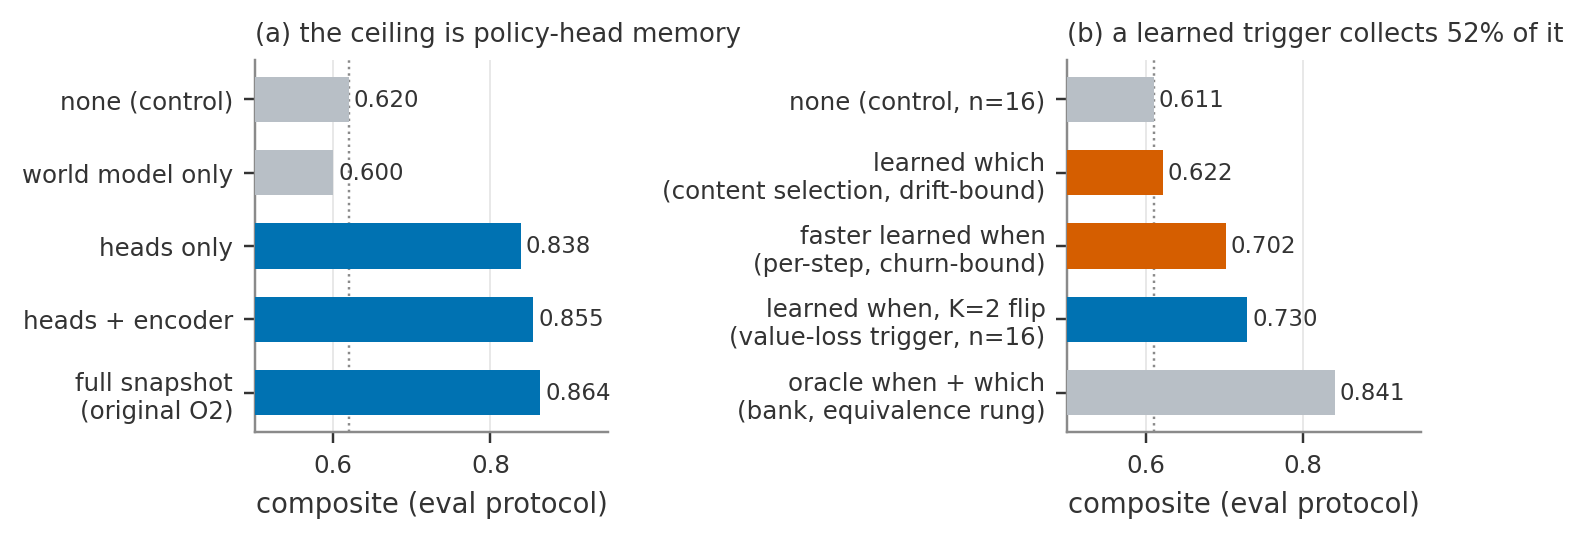
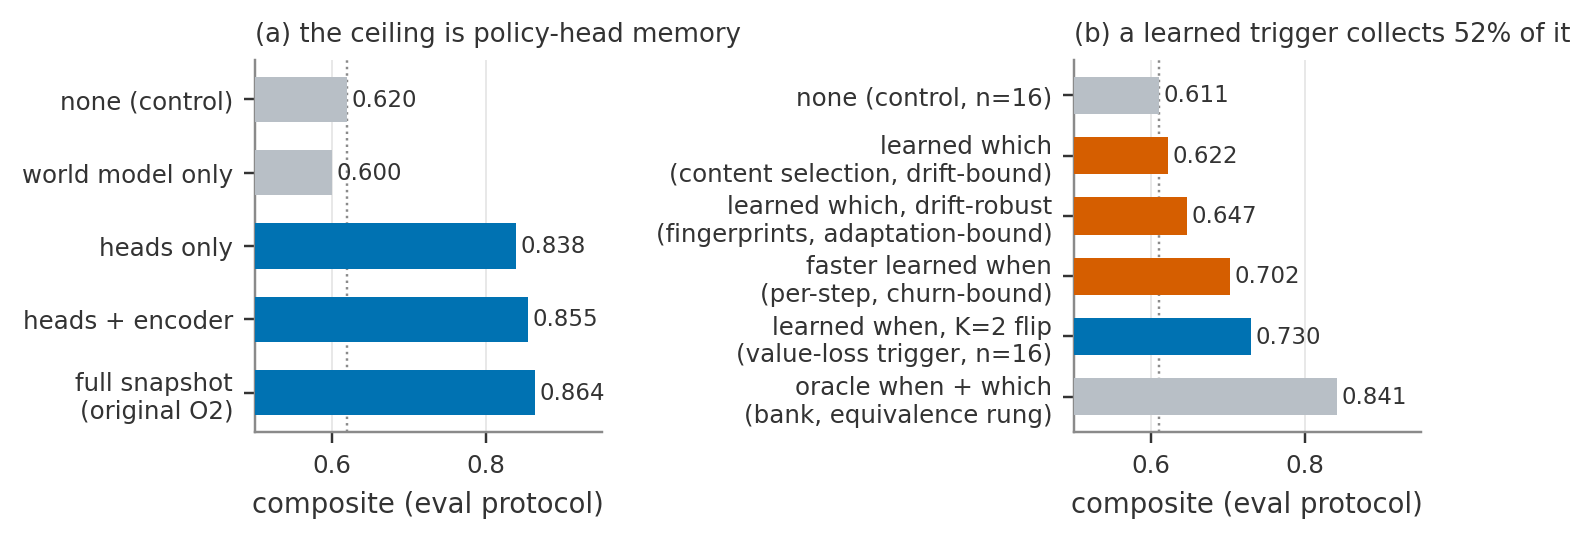
LOOP-0015 CLOSED: selection family adjudicated -- live-side adaptation is the third and final mechanism; paper updated
P-FP1 FAIL (flip-when-should 0.16 / stay 0.64) + P-FP2 FAIL (+0.0367,
p=0.27). The drift fix WORKED (fingerprints score in their own frozen
feature space; live WM untouched) -- and exposed the real obstruction: the
live reward head adapts to the new regime within the trigger's one-update
lag, so the live-scored 'no switch' hypothesis wins even at true switches.

Selection family closed: 3 probes / 3 identified mechanisms (trunk drift,
verification churn, live-side adaptation) -> a 2048-step window measured
against a fast-adapting reward function has no stationary signal for
content addressing on this instrument. The blind K=2 flip (+0.1188, n=16)
stands as the method. The learned WHICH needs oracle identity or an
instrument whose regime signal outlives the learner's adaptation
(dynamics-differing regimes) -- recorded as a future-instrument note.

Paper: gap-anatomy item 3 rewritten (three-mechanism verdict), section 6.3
closing paragraph updated (no next-rung framing; release-and-port framing),
discussion sentence updated, fig3(b) gains the adaptation-bound bar.

diff --git a/paper/main.tex b/paper/main.tex
@@ -612,8 +612,9 @@ whole benchmark just gets harder.
   \textbf{(b)}~De-oracling the heads bank: with oracle timing and identity the
   bank reproduces the oracle; a self-supervised value-loss trigger with
   $K{=}2$ flip selection retains 52\% of the slice (blue); faster triggering
-  and content-addressed selection (vermillion) are adjudicated negatives ---
-  churn-bound and drift-bound respectively (\S\ref{sec:gap-anatomy}).}
+  and both content-selection designs (vermillion) are adjudicated negatives
+  --- churn-bound, adaptation-bound, and drift-bound respectively
+  (\S\ref{sec:gap-anatomy}).}
   \label{fig:memory}
 \end{figure}
 
@@ -658,29 +659,36 @@ identified mechanism:
   fails, the detector correctly fires again), so each false fire costs two
   cooldowns of churn; live precision fell to $0.65$ at $15$ fires/run.
   Precision-is-free is cadence-bounded.
-  \item \textbf{Content-addressed selection fails for a representational
-  reason, not an informational one.} Selecting slots by banked-critic value
-  fit, or by a banked world-model reward head used as a regime fingerprint,
-  both collapse to the control: banked heads are scored through a trunk that
-  has \emph{kept training} since banking, so the always-fresh live head wins
-  the error comparison and the selector almost never restores (restore rates
-  $2\%$ and $16\%$ of fires, with well-calibrated triggers). Drift between
-  banking and scoring, not absence of identity signal, is the obstruction ---
-  and it is the same obstruction a per-event world-model trigger meets (its
-  reward head is chronically underconfident at goal events; per-event
-  prediction error carried precision $0.02$--$0.04$ in shadow calibration).
+  \item \textbf{Content-addressed selection fails three ways, each
+  identified.} Selecting slots by banked-critic value fit, or by a banked
+  world-model reward head used as a regime fingerprint, collapses to the
+  control: banked heads are scored through a trunk that has \emph{kept
+  training} since banking, so the always-fresh live head wins the error
+  comparison and the selector almost never restores (restore rates $2\%$ and
+  $16\%$ of fires, with well-calibrated triggers). Fixing that drift ---
+  banking each slot's \emph{entire} world model so fingerprints are scored in
+  their own frozen feature space --- exposes a third obstruction: by the time
+  the trigger fires ($\sim$1 update post-switch), the live reward head has
+  already adapted to the new regime's sparse rewards, so the ``no switch
+  happened'' hypothesis wins the comparison even at true switches
+  ($+0.037$, $p{=}0.27$; flip rate on true-switch fires $0.16$). Three
+  selectors, three mechanisms --- trunk drift, verification churn, live-side
+  adaptation --- one conclusion: a $2{,}048$-step window measured against a
+  fast-adapting reward function leaves no stationary signal for content
+  addressing on this instrument.
   \item \textbf{Difficulty does not rescue the program} (\S\ref{sec:decomp}):
   the restoration premium is flat in regime count.
 \end{enumerate}
 
 The residual $\sim$0.10 is therefore structural to \{$K{=}2$ flip $+$
-self-supervised trigger\}: first-exposure spawn dynamics plus detection
-economics, with no single knob left. The one mechanism-level idea that
-attacks both at once --- \emph{drift-robust fingerprints}, banking the
-scoring path alongside each slot so matching data keeps the current head
-(false-fire suppression) and mismatching data addresses the right one
-($K{>}2$ selection) --- is the natural next rung, and we release the bank,
-triggers, and probes to make it a one-afternoon experiment.
+self-supervised trigger\} on this instrument: first-exposure spawn dynamics
+plus detection economics, with no knob left --- threshold, precision, lag,
+and all three content-selection designs are adjudicated. The learned
+\emph{which} would need either oracle identity or an instrument whose regime
+signal outlives the learner's own adaptation (regimes that differ in
+dynamics, not only reward, are the obvious candidate). We release the bank,
+the triggers, the selectors, and every probe so that porting this ladder to
+such an instrument is a one-afternoon experiment.
 
 \section{Three Mirages and a Criterion}
 \label{sec:mirages}
@@ -768,9 +776,11 @@ self-supervised trigger then collected 52\% of the routed slice with zero
 oracle bits. The anticipated difficulty inverted: buffer-selection results
 suggested selection is where difficulty
 concentrates~\citep{isele2018selectivereplay,kessler2023continualdreamer},
-and our selection probes do fail --- but for a drift reason that also caps
-every faster-trigger design, while the \emph{when} half proved learnable at
-half the ceiling on the first attempt. Notably, these results also bound
+and our selection probes do fail --- three designs, three identified
+mechanical reasons (representation drift, verification churn, live-side
+adaptation), the last of which also caps every faster-trigger design ---
+while the \emph{when} half proved learnable at half the ceiling on the first
+attempt. Notably, these results also bound
 what a \emph{Brain-in-the-loop} restore gate could add: it would act at the
 same per-update cadence (same lag floor), and the one thing it could learn
 beyond the static detector --- fire suppression --- is measured to be worth

diff --git a/paper/figures/make_figures.py b/paper/figures/make_figures.py
@@ -168,6 +168,7 @@ def fig3_memory() -> None:
         ("oracle when + which\n(bank, equivalence rung)", 0.8409, BAR_GRAY),
         ("learned when, K=2 flip\n(value-loss trigger, n=16)", 0.7295, BLUE),
         ("faster learned when\n(per-step, churn-bound)", 0.7023, VERMILLION),
+        ("learned which, drift-robust\n(fingerprints, adaptation-bound)", 0.6473, VERMILLION),
         ("learned which\n(content selection, drift-bound)", 0.6218, VERMILLION),
         ("none (control, n=16)", 0.6107, BAR_GRAY),
     ]

diff --git a/AUTORESEARCH.md b/AUTORESEARCH.md
@@ -72,7 +72,7 @@ Index with one-liners: [docs/autoresearch-loops/README.md](docs/autoresearch-loo
 - [LOOP-0012 — G3 head-bank de-oracling](docs/autoresearch-loops/LOOP-0012-g3-head-bank.md): closed 2026-07-14 same-day ($0, 24/24) — **bank ≡ heads swap (P-G3a); A-R1 learned trigger recovers +0.1180 = 54% of the ceiling slice with zero oracle bits (P-G3b PASS, precision 0.70, hit80 1.000)**; P-G3c selection arm **invalidated same day** — missing slot allocation meant the selector never ran (artifact caught by LOOP-0013's smoke; correction in [note 0013](docs/research-notes/0013-learned-trigger-selection-gap.md))
 - [LOOP-0013 — selection rung done right](docs/autoresearch-loops/LOOP-0013-selection-rung.md): selection RESOLVED 2026-07-15 ($0, 24/24) — **P-G3e PASS: the K=2-flip learned-trigger method converges at n=16, +0.1188 (p=4.7e-7, 52% of slice); P-G3d + P-G3d-ve both FAIL as real nulls with an identified mechanism: banked heads scored through the live drifting trunk almost never restore (1/55, 9/55 fires)** — the selection frontier is drift-robust fingerprints (bank the scoring path) or the mem-Brain lever. **Addendum resolved + LOOP CLOSED 2026-07-15: precision 0.69→0.94 (thr 1.5) moved the composite by nothing (P-T15a PASS / P-T15b FAIL) — the oracle gap is detection LAG, structural to per-update detectors including a Brain gate at the same cadence** ([log 0011](docs/research-log/0011-2026-07-15-trigger-hardening-preregistration.md), [note 0013](docs/research-notes/0013-learned-trigger-selection-gap.md)); $0 frontier: per-step WM-surprise trigger, drift-robust fingerprints; mem-Brain premise weakened
 - [LOOP-0014 — per-step trigger vs the lag wall](docs/autoresearch-loops/LOOP-0014-step-trigger.md): OPEN (scored arm launched 2026-07-16, home, $0) — model-free success-collapse detector fires mid-rollout (median lag ~400 steps vs 2,048+ per-update); shadow-calibrated over 3 disclosed iterations (per-event WM prediction error abandoned at precision 0.02-0.04); **CLOSED 2026-07-16: P-S1a+b both FAIL** — lag cut to 280 steps (recall 1.00) but gain FELL to +0.0916: a false flip guarantees its own secondary collapse (live precision 0.65 @ 15.5 fires/run; churn > lag savings). **Trigger family complete — the method is the per-update trigger at +0.1188 (n=16)**; residual ~0.10 gap structural; next: paper consolidation ([note 0013 addendum](docs/research-notes/0013-learned-trigger-selection-gap.md))
-- [LOOP-0015 — drift-robust fingerprint selection](docs/autoresearch-loops/LOOP-0015-fingerprint-selection.md): OPEN (launched 2026-07-16, home, $0, user green-light) — fixes the LOOP-0013 drift null by banking the full WM per slot (scoring-only) so fingerprints read their own frozen features; live WM scores the active slot → the selector doubles as a fire verifier (the LOOP-0014 churn suppressor); gates P-FP1 (flip/stay behavior ≥0.75) + P-FP2 (non-inferiority vs ar1) pre-registered ([log 0013](docs/research-log/0013-2026-07-16-fingerprint-selection-preregistration.md))
+- [LOOP-0015 — drift-robust fingerprint selection](docs/autoresearch-loops/LOOP-0015-fingerprint-selection.md): OPEN (launched 2026-07-16, home, $0, user green-light) — fixes the LOOP-0013 drift null by banking the full WM per slot (scoring-only) so fingerprints read their own frozen features; live WM scores the active slot → the selector doubles as a fire verifier (the LOOP-0014 churn suppressor); **CLOSED same-day: P-FP1+FP2 both FAIL** (+0.0367 p=0.27; flip-when-should 0.16) — the drift fix worked, but the live reward head adapts within the trigger's one-update lag, so the live-scored 'no switch' hypothesis wins even at true switches. **Selection family adjudicated closed on this instrument (drift → churn → live-side adaptation); the blind K=2 flip +0.1188 (n=16) stands as the method** ([log 0013](docs/research-log/0013-2026-07-16-fingerprint-selection-preregistration.md), [note 0013 addendum](docs/research-notes/0013-learned-trigger-selection-gap.md))
 
 ## Deeper references
 

diff --git a/docs/autoresearch-loops/README.md b/docs/autoresearch-loops/README.md
@@ -78,4 +78,4 @@ The loop note is its curated, committed afterlife, written at loop close-out.
 | [LOOP-0012](./LOOP-0012-g3-head-bank.md) | 2026-07-14 | G3 de-oracling ($0, home): bank ≡ swap (P-G3a); **learned trigger recovers +0.118 = 54% of the ceiling slice** (P-G3b, hit80 1.000); P-G3c selection arm **invalidated same day** (missing slot allocation — selector never ran; corrected in note 0013, re-run in LOOP-0013) | closed |
 | [LOOP-0013](./LOOP-0013-selection-rung.md) | 2026-07-14–15 | Selection + trigger rungs done right ($0): **flip method converges n=16 +0.1188 (52% of slice)**; content selectors = real nulls (trunk drift, 1/55 & 9/55 restores); precision 0.69→0.94 moves nothing → **the gap to oracle is detection lag** — per-step trigger & drift-robust fingerprints are the $0 frontier; mem-Brain lever premise weakened ([note 0013](../research-notes/0013-learned-trigger-selection-gap.md)) | closed |
 | [LOOP-0014](./LOOP-0014-step-trigger.md) | 2026-07-15– | Per-step trigger vs the lag wall ($0): model-free success-collapse detector (fast/slow EMAs at episode terminations), 3-iteration shadow calibration disclosed (WM per-event error = noise; final: live-equiv precision ~0.9, median lag ~400 steps); P-S1a+b both FAIL: lag cut to 280 steps but gain FELL to +0.0916 — false flips self-generate collapses (churn > lag savings); **trigger family complete, method stands at +0.1188** ([note 0013 addendum](../research-notes/0013-learned-trigger-selection-gap.md)) | closed |
-| [LOOP-0015](./LOOP-0015-fingerprint-selection.md) | 2026-07-16– | Drift-robust fingerprint selection ($0): bank the full WM per slot (scoring-only, frozen feature space), live WM scores the active slot — selection + fire verification in one mechanism; gates P-FP1/FP2 pre-registered ([log 0013](../research-log/0013-2026-07-16-fingerprint-selection-preregistration.md)) | **OPEN** |
+| [LOOP-0015](./LOOP-0015-fingerprint-selection.md) | 2026-07-16– | Drift-robust fingerprint selection ($0): bank the full WM per slot (scoring-only, frozen feature space), live WM scores the active slot — P-FP1+FP2 both FAIL (+0.037, flip-when-should 0.16): the drift fix worked but the live reward head adapts within the trigger lag — the 'no switch' hypothesis wins even at true switches. **Selection family closed (3 probes / 3 mechanisms); the blind flip +0.1188 stands** ([note 0013 addendum](../research-notes/0013-learned-trigger-selection-gap.md)) | closed |

diff --git a/docs/research-notes/0013-learned-trigger-selection-gap.md b/docs/research-notes/0013-learned-trigger-selection-gap.md
@@ -147,6 +147,35 @@ that attacks BOTH residuals at once is drift-robust fingerprint selection (stay 
 incoming data matches the active head's fingerprint → false fires become no-ops; restore the
 matching slot when it doesn't → selection for K>2) — a future rung, after the paper.
 
+## Drift-robust fingerprint addendum (2026-07-16, LOOP-0015 — the selection family closes)
+
+The drift fix itself worked as designed (each slot's fingerprint = its **entire banked WM**,
+scored in its own frozen feature space; live WM never touched; verified by unit test and by
+off-window behavior — stays, not the drift-null's paralysis). The gates still failed:
+
+| | gain | flip-when-should | stay-when-should |
+| --- | --- | --- | --- |
+| g3_fp (n=8) | **+0.0367** (p=0.27) | **0.16** (43 window fires) | 0.64 (14 off-window) |
+| references | ar1 blind flip +0.1188 · drift-bound fp −0.0092 | | |
+
+**P-FP1 FAIL / P-FP2 FAIL — third distinct mechanism, identified:** by the time the
+per-update trigger fires (~1 update after a switch), the live WM has already taken one
+training pass on post-switch data — its 257-param reward head fits the new regime's sparse
+rewards fast enough that the "no switch happened" hypothesis (the live WM, scoring the
+active slot) wins the comparison even when a switch DID happen. The banked fingerprint is
+honest now; the *comparison target* is a moving goalpost that has already moved.
+
+**Selection family verdict (3 probes, 3 mechanisms, one conclusion):** critic value fit —
+trunk drift; per-step verification — self-generated churn; frozen-feature fingerprints —
+live-side adaptation. On this instrument, a 2,048-step post-switch window against a
+fast-adapting reward function leaves no stationary signal for content addressing. **The
+learned WHICH is closed here; the blind K=2 flip (+0.1188) stands as the method.** K>2
+content addressing on this family would need either oracle identity or an instrument whose
+regime signal outlives the learner's own adaptation (e.g., dynamics-differing regimes) — a
+future-instrument note, not a rung. (A conceivable fourth design — periodically re-banking
+the active fingerprint and comparing two FROZEN fingerprints — would fight the same
+adaptation race at the re-bank cadence; we record it as unexplored rather than promising.)
+
 ## Links
 
 Raw: `evals/g3_*`, `evals/wave1_scores.json` (local) · adjudicator `scripts/score_wave1.py g3` ·

diff --git a/docs/research-log/README.md b/docs/research-log/README.md
@@ -59,4 +59,4 @@ Concrete next actions or open questions.
 | [0010](./0010-2026-07-14-selection-rung-preregistration.md) | 2026-07-14 | Registered gates P-G3d/d-ve/e: selection re-run with spawn-until-full allocation — reward fingerprint vs value fit head-to-head + ar1 n=16 (LOOP-0013) | Resolved 07-15 (d FAIL, d-ve FAIL — trunk drift; e PASS +0.1188) |
 | [0011](./0011-2026-07-15-trigger-hardening-preregistration.md) | 2026-07-15 | Registered gates P-T15a/b: K=2-flip trigger hardening at threshold 1.5 (LOOP-0013 addendum) | Resolved same-day (a PASS 0.94, b FAIL — gap is lag) |
 | [0012](./0012-2026-07-16-step-trigger-preregistration.md) | 2026-07-16 | Registered gates P-S1a/b: per-step success-collapse trigger (LOOP-0014) — the lag-wall attack; calibration history disclosed | Resolved same-day (a+b FAIL — churn > lag savings; method stands at +0.1188) |
-| [0013](./0013-2026-07-16-fingerprint-selection-preregistration.md) | 2026-07-16 | Registered gates P-FP1/FP2 (+suppression dividend): drift-robust full-WM fingerprint selection (LOOP-0015) | Registered (pre-results) |
+| [0013](./0013-2026-07-16-fingerprint-selection-preregistration.md) | 2026-07-16 | Registered gates P-FP1/FP2 (+suppression dividend): drift-robust full-WM fingerprint selection (LOOP-0015) | Resolved same-day (FP1+FP2 FAIL — live-side adaptation; selection family closed) |

diff --git a/docs/autoresearch-loops/LOOP-0015-fingerprint-selection.md b/docs/autoresearch-loops/LOOP-0015-fingerprint-selection.md
@@ -1,10 +1,16 @@
-# LOOP-0015 — Drift-robust fingerprint selection (2026-07-16–OPEN)
+# LOOP-0015 — Drift-robust fingerprint selection (2026-07-16, closed same-day)
 
 **Goal:** Fix content-addressed slot selection by scoring each slot's fingerprint in its own
 frozen feature space (bank the full WM per slot, scoring-only), with the live WM scoring the
 active slot — one mechanism that both unlocks the learned WHICH (K>2) and verifies fires
 (the LOOP-0014 churn suppressor). User green-light 2026-07-16 ($0/home only).
-**Verdict:** OPEN — scored arm launching 2026-07-16.
+**Verdict:** CLOSED 2026-07-16 (8/8 clean) — **P-FP1 FAIL (flip-when-should 0.16 / stay
+0.64) + P-FP2 FAIL (+0.0367, p=0.27)**. The drift fix worked; a third, distinct mechanism
+surfaced: the live reward head adapts to the new regime within the trigger's one-update lag,
+so the live-scored "no switch" hypothesis wins even at true switches. **Selection family
+closed (3 probes / 3 identified mechanisms: drift, churn, live-side adaptation) — the blind
+K=2 flip (+0.1188, n=16) stands as the method.** Full anatomy:
+[note 0013 §Drift-robust fingerprint addendum](../research-notes/0013-learned-trigger-selection-gap.md).
 
 ## Hardware
 
